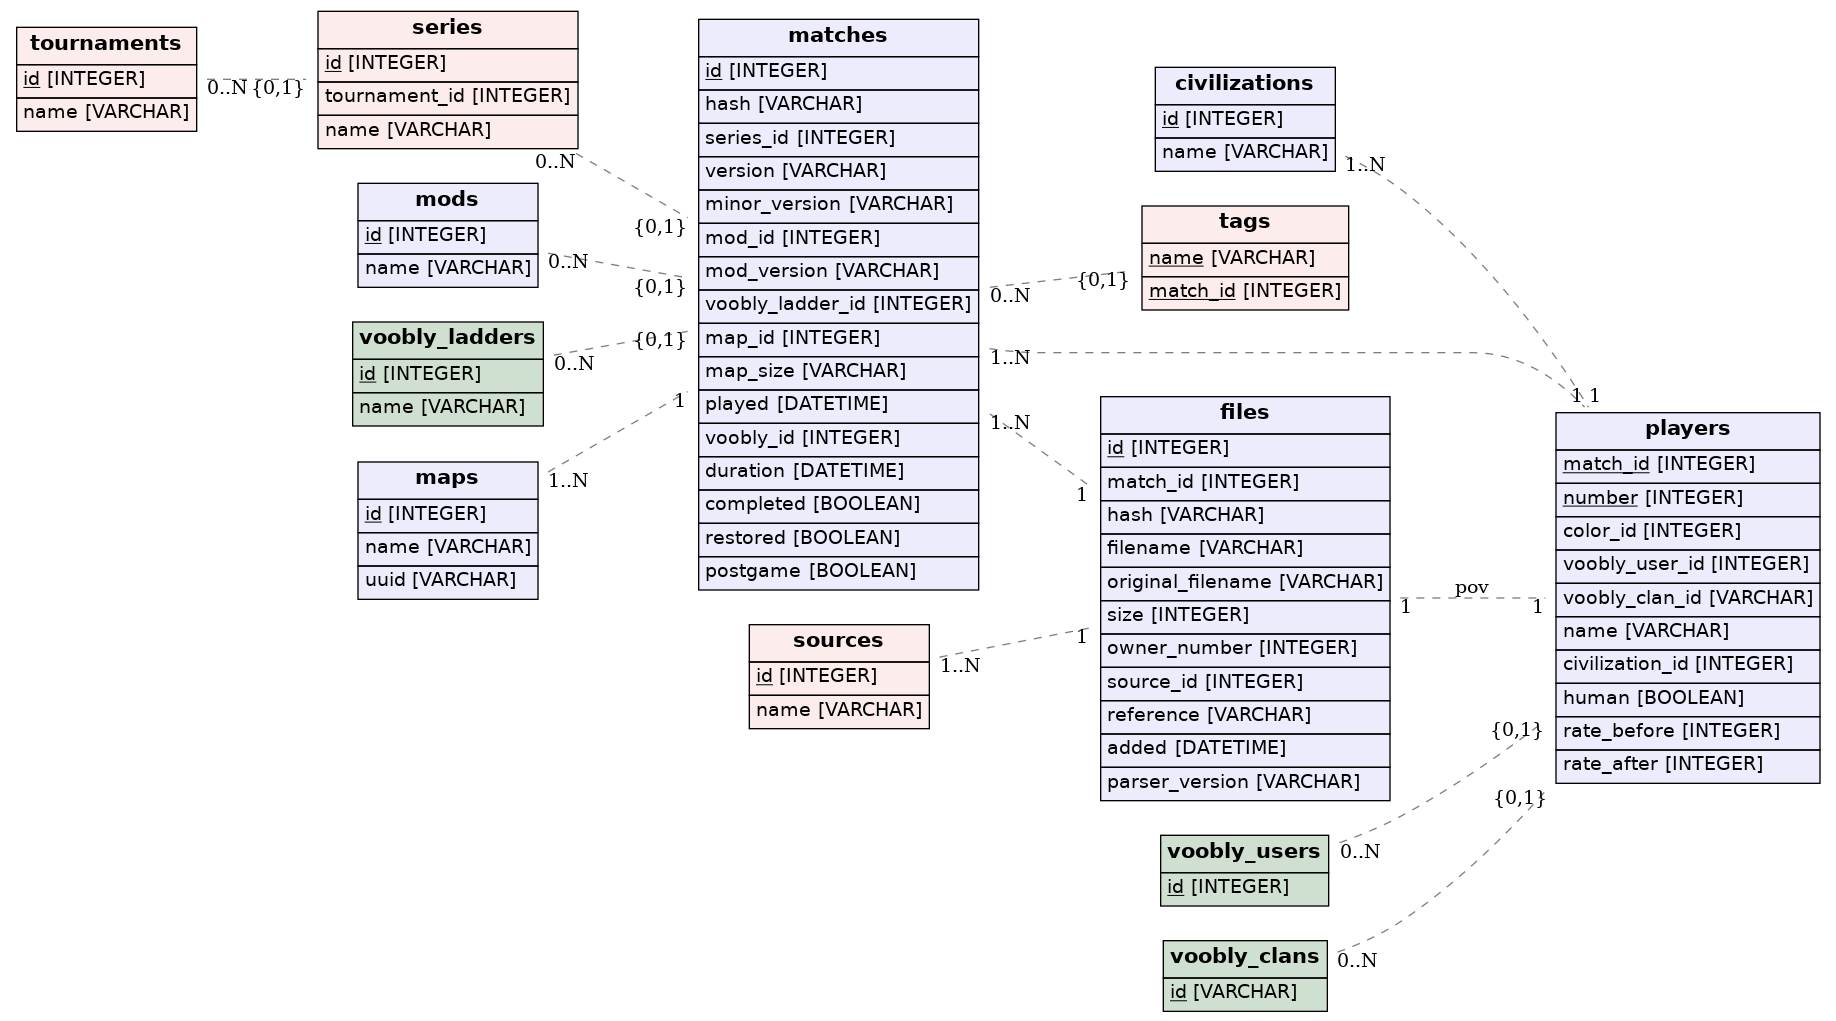
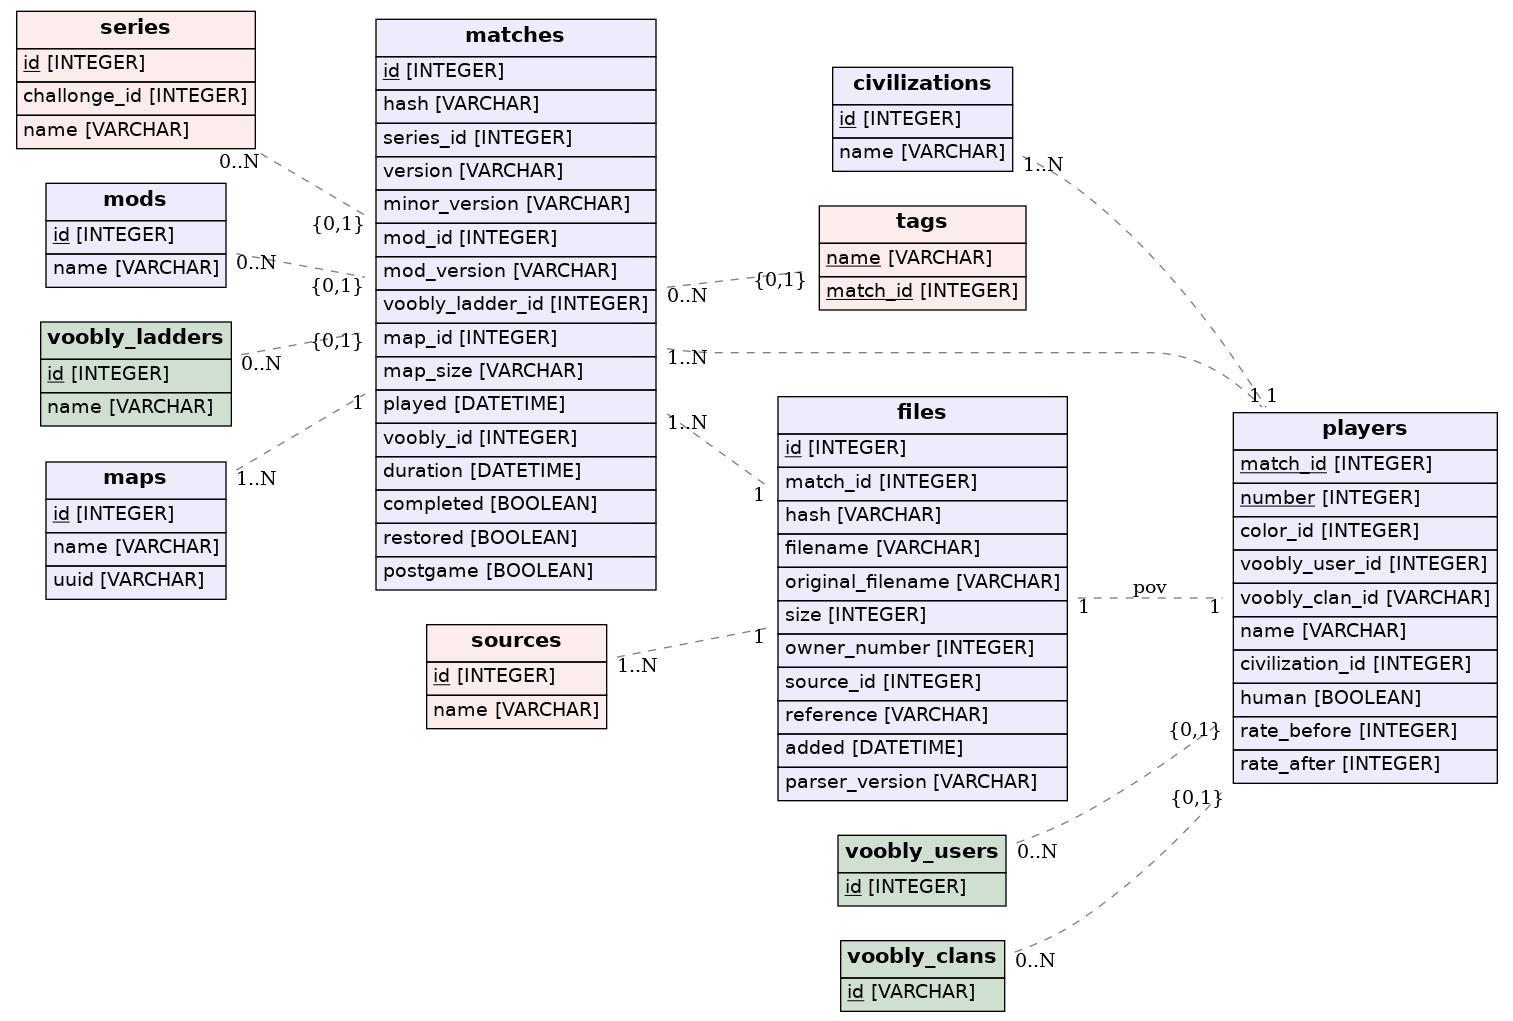
support challonge; fix bugs

diff --git a/mgzdb/api.py b/mgzdb/api.py
@@ -5,6 +5,7 @@ import io
 import logging
 import lzma
 import os
+import tempfile
 import zipfile
 from datetime import timedelta
 
@@ -19,8 +20,8 @@ import mgz.summary
 import voobly
 
 from mgzdb.schema import (
-    get_session, Tournament, Series, Match, VooblyUser, Tag,
-    File, Source, Mod, VooblyLadder, Player, Civilization, Map, VooblyClan
+    get_session, Match, VooblyUser, Tag, Series, File, Source,
+    Mod, VooblyLadder, Player, Civilization, Map, VooblyClan
 )
 from mgzdb.util import copy_file, fetch_file, parse_filename_timestamp
 from mgzdb import queries
@@ -75,31 +76,32 @@ class API:
                 SOURCE_VOOBLY,
                 voobly_url,
                 tags,
-                None,
-                None,
                 voobly_id=voobly_id,
                 played=match['timestamp'],
                 force=force,
                 user_data=player
             )
 
-    def add_series(self, zip_path, extract_path, tags, series, tournament, force=False):
+    def add_series(self, zip_path, tags, series=None, challonge_id=None, force=False):
         """Add a series via zip file."""
-        with zipfile.ZipFile(zip_path) as series_zip:
-            LOGGER.info("[%s] opened archive", os.path.basename(zip_path))
-            series_zip.extractall(extract_path)
-            for filename in series_zip.namelist():
-                LOGGER.info("[%s] processing member file %s", os.path.basename(zip_path), filename)
-                self.add_file(
-                    os.path.join(extract_path, filename),
-                    SOURCE_ZIP,
-                    os.path.basename(zip_path),
-                    tags,
-                    series,
-                    tournament,
-                    force=force
-                )
-            LOGGER.info("[%s] finished", os.path.basename(zip_path))
+        with tempfile.TemporaryDirectory() as temp_dir:
+            with zipfile.ZipFile(zip_path) as series_zip:
+                LOGGER.info("[%s] opened archive", os.path.basename(zip_path))
+                series_zip.extractall(temp_dir)
+                for filename in series_zip.namelist():
+                    if filename.endswith('/'):
+                        continue
+                    LOGGER.info("[%s] processing member file %s", os.path.basename(zip_path), filename)
+                    self.add_file(
+                        os.path.join(temp_dir, filename),
+                        SOURCE_ZIP,
+                        os.path.basename(zip_path),
+                        tags,
+                        series,
+                        challonge_id,
+                        force=force
+                    )
+                LOGGER.info("[%s] finished", os.path.basename(zip_path))
 
     def add_csv(self, csv_path, download_path, tags, force=False):
         """Add matches from CSV."""
@@ -118,8 +120,6 @@ class API:
                     SOURCE_CSV,
                     os.path.basename(csv_path),
                     tags,
-                    None,
-                    None,
                     voobly_id=row['MatchId'],
                     played=iso8601.parse_date(row['MatchDate']),
                     force=force,
@@ -135,7 +135,7 @@ class API:
             LOGGER.info("[%s] finished parse", os.path.basename(csv_path))
 
     def add_file(
-            self, rec_path, source, reference, tags, series, tournament,
+            self, rec_path, source, reference, tags, series=None, challonge_id=None,
             voobly_id=None, played=None, force=False, user_data=None
     ):
         """Add a single mgz file."""
@@ -178,7 +178,7 @@ class API:
             LOGGER.info("[f:%s] adding match", log_id)
             if not played:
                 played = parse_filename_timestamp(original_filename)
-            match = self._add_match(summary, played, series, tournament, tags, voobly_id, force, match_hash)
+            match = self._add_match(summary, played, tags, match_hash, series, challonge_id, voobly_id, force)
             if not match:
                 return False
 
@@ -200,7 +200,7 @@ class API:
         LOGGER.info("[f:%s] add finished, file id: %d, match id: %d", log_id, new_file.id, match.id)
         return True
 
-    def _add_match(self, summary, played, series, tournament, tags, voobly_id, force, match_hash):
+    def _add_match(self, summary, played, tags, match_hash, series=None, challonge_id=None, voobly_id=None, force=False):
         postgame = summary.get_postgame()
         duration = summary.get_duration()
         ladder = summary.get_ladder()
@@ -237,11 +237,7 @@ class API:
             voobly_id=voobly_id,
             played=played,
             hash=match_hash,
-            series=self._get_unique(
-                Series,
-                name=series,
-                tournament=self._get_unique(Tournament, name=tournament)
-            ),
+            series=self._get_unique(Series, name=series, challonge_id=challonge_id),
             version=major_version,
             minor_version=minor_version,
             mod_version=mod_version,

diff --git a/mgzdb/__main__.py b/mgzdb/__main__.py
@@ -1,11 +1,12 @@
 """CLI for MGZ database."""
 import argparse
+import json
 import logging
 import os
 
 import coloredlogs
-import yaml
 from mgzdb.api import API
+from mgzdb.util import parse_series_path
 
 
 CMD_QUERY = 'query'
@@ -35,10 +36,7 @@ def main(args):
         # File
         if args.subcmd == SUBCMD_FILE:
             for rec in args.rec_path:
-                db_api.add_file(
-                    rec, args.source, None, args.tags, args.series, args.tournament,
-                    force=args.force
-                )
+                db_api.add_file(rec, args.source, None, args.tags, force=args.force)
 
         # Match
         elif args.subcmd == SUBCMD_MATCH:
@@ -47,10 +45,11 @@ def main(args):
 
         # Series
         elif args.subcmd == SUBCMD_SERIES:
-            db_api.add_series(
-                args.zip_path, args.extract_path, args.tags, args.series,
-                args.tournament, force=args.force
-            )
+            for path in args.zip_path:
+                series, challonge_id = parse_series_path(path)
+                db_api.add_series(
+                    path, args.tags, series, challonge_id, force=args.force
+                )
 
         # CSV
         elif args.subcmd == SUBCMD_CSV:
@@ -66,7 +65,7 @@ def main(args):
 
     # Query
     elif args.cmd == CMD_QUERY:
-        print(yaml.dump(db_api.query(args.subcmd, **vars(args)), default_flow_style=False))
+        print(json.dumps(db_api.query(args.subcmd, **vars(args)), indent=2))
 
     # Get
     elif args.cmd == CMD_GET:
@@ -148,10 +147,7 @@ def setup():
 
     # "add series"
     add_series = add_subparsers.add_parser(SUBCMD_SERIES)
-    add_series.add_argument('zip_path')
-    add_series.add_argument('series')
-    add_series.add_argument('-ep', '--extract-path', default=default_file_path)
-    add_series.add_argument('--tournament')
+    add_series.add_argument('zip_path', nargs='+')
 
     # "add csv"
     add_csv = add_subparsers.add_parser(SUBCMD_CSV)

diff --git a/mgzdb/schema.py b/mgzdb/schema.py
@@ -127,22 +127,13 @@ class Tag(BASE):
     match = relationship('Match', foreign_keys=match_id)
 
 
-class Tournament(BASE):
-    """Represents Tournament."""
-    __tablename__ = 'tournaments'
-    id = Column(Integer, primary_key=True)
-    name = Column(String, nullable=False)
-
-
 class Series(BASE):
     """Represents Series."""
     __tablename__ = 'series'
     id = Column(Integer, primary_key=True)
-    tournament_id = Column(Integer, ForeignKey('tournaments.id'))
-    tournament = relationship('Tournament', foreign_keys=tournament_id)
-    name = Column(String, nullable=False)
+    name = Column(String)
+    challonge_id = Column(Integer)
     matches = relationship('Match', foreign_keys='Match.series_id', cascade='all, delete-orphan')
-    __table_args__ = (UniqueConstraint('tournament_id', 'name', name='unique_series'),)
 
 
 class VooblyLadder(BASE):

diff --git a/mgzdb/util.py b/mgzdb/util.py
@@ -1,9 +1,14 @@
 """Utilities."""
+import os
 import tempfile
+import re
 from datetime import datetime
 from scp import SCPClient
 
+
 MGZ_EXT = '.mgz'
+ZIP_EXT = '.zip'
+CHALLONGE_ID_LENGTH = 9
 
 
 def copy_file(handle, ssh, path):
@@ -21,6 +26,19 @@ def fetch_file(ssh, path):
         fp.flush()
         with open(fp.name, 'rb') as rd:
             return rd.read()
+
+
+def parse_series_path(path):
+    """Parse series name and challonge ID from path."""
+    filename = os.path.basename(path)
+    start = 0
+    challonge_id = None
+    pattern = re.compile('[0-9]{' + str(CHALLONGE_ID_LENGTH) + '}')
+    if pattern.match(filename):
+        challonge_id = int(filename[:CHALLONGE_ID_LENGTH])
+        start = CHALLONGE_ID_LENGTH + 1
+    series = filename[start:].replace(ZIP_EXT, '')
+    return series, challonge_id
 
 
 def parse_filename_timestamp(func):

diff --git a/mgzdb/queries.py b/mgzdb/queries.py
@@ -1,7 +1,10 @@
 """MGZ database queries."""
 import logging
 from sqlalchemy import func
-from mgzdb.schema import File, Match, Series, Tournament, VooblyLadder, Source, Tag, Mod, Civilization, Map, VooblyUser
+from mgzdb.schema import (
+    File, Match, Series, VooblyLadder, Source, Tag,
+    Mod, Civilization, Map, VooblyUser
+)
 
 
 LOGGER = logging.getLogger(__name__)
@@ -64,6 +67,8 @@ def get_series(session, series_id):
         return None
     return {
         'series_id': series_id,
+        'challonge_id': series.challonge_id,
+        'name': series.name,
         'matches': [{
             'match_id': match.id,
             'files': [{
